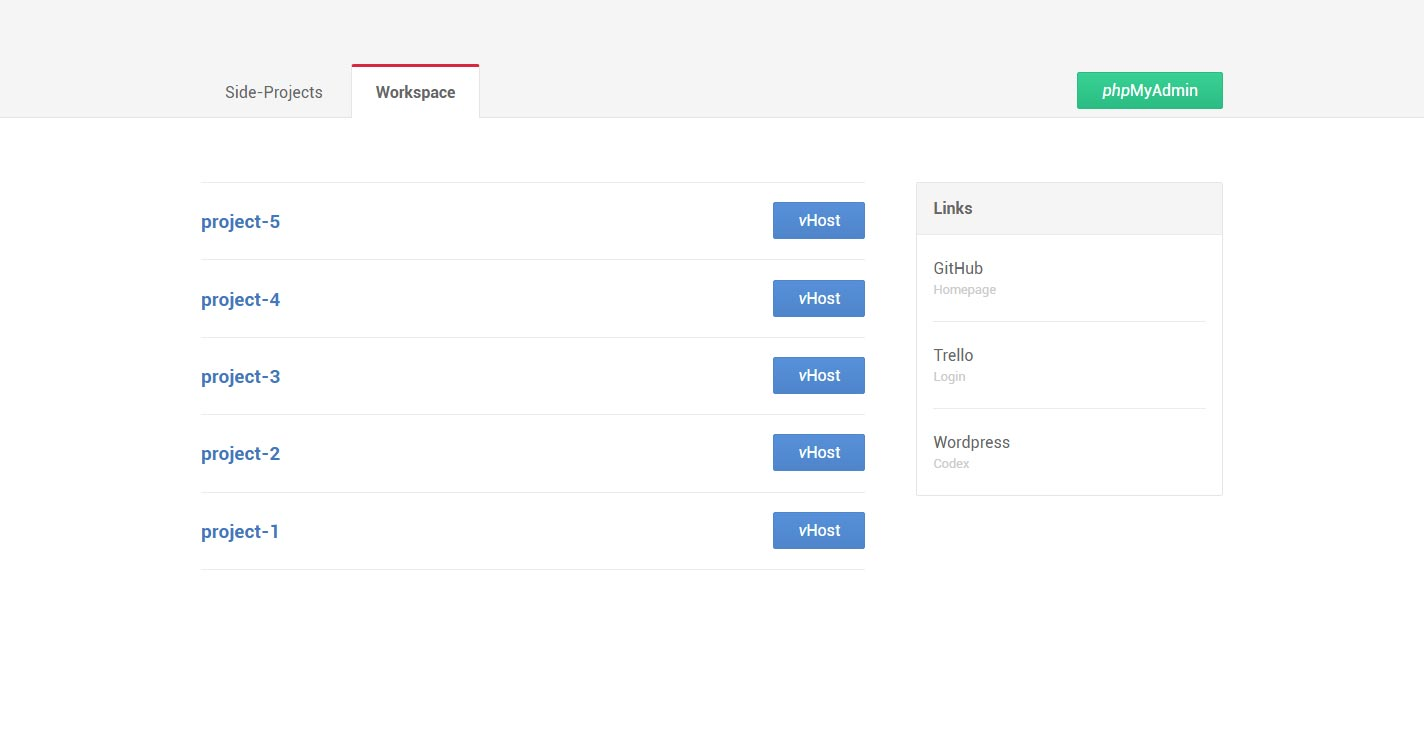
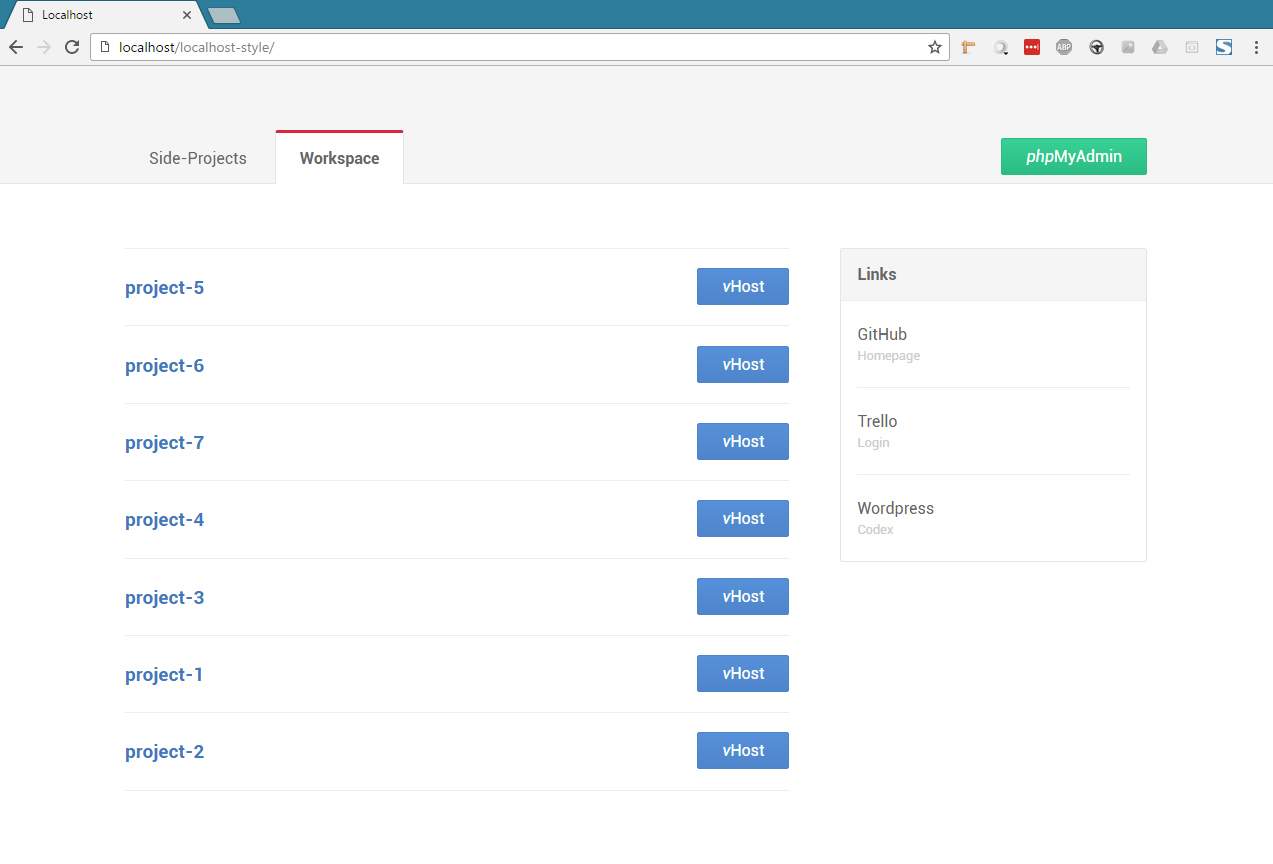
img update

diff --git a/index-workspace.php b/index-workspace.php
@@ -16,7 +16,7 @@
 
             <div class="projekte">
                 <nav class="projekte-nav">
-                    <a href="http://localhost/dreiqbik/" class="projekte-link">DreiQbik</a>
+                    <a href="http://localhost/dreiqbik/" class="projekte-link">Side-Projects</a>
                     <a href="http://localhost/workspace/" class="projekte-link active">Workspace</a>
                     <a href="http://localhost/phpMyAdmin/" class="link-ext"><em>php</em>MyAdmin</a>
                 </nav>
@@ -69,9 +69,6 @@
                         </li>
                         <li class="sites-item">
                             <a href="https://trello.com/login" class="sites-link">Trello<br><span class="sites-link-desc">Login</span></a>
-                        </li>
-                        <li class="sites-item">
-                            <a href="https://kas.all-inkl.com/" class="sites-link">ALL-INKL<br><span class="sites-link-desc">KAS-Server</span></a>
                         </li>
                         <li class="sites-item">
                             <a href="https://developer.wordpress.org/reference/" class="sites-link">Wordpress<br><span class="sites-link-desc">Codex</span></a>

diff --git a/README.md b/README.md
@@ -16,4 +16,6 @@ A custom index.php and CSS styles for your localhost.
 * The `vHost`-button only works if you create a virtual host with the same name as the repository
 * The project list always displays the last modified project/folder first
 
+## How it looks
+
 ![Image of Localhost Style](showcase.jpg)
